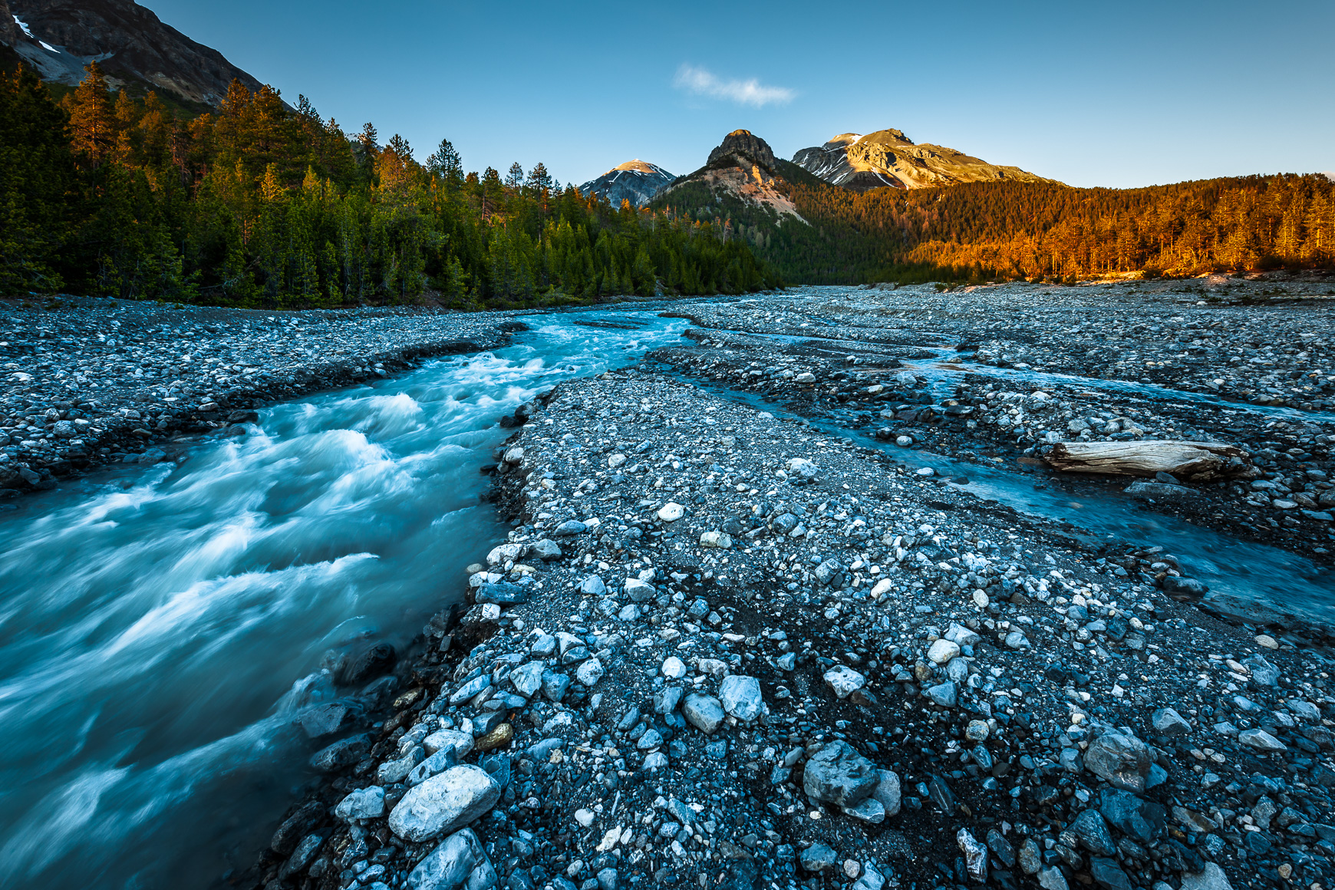
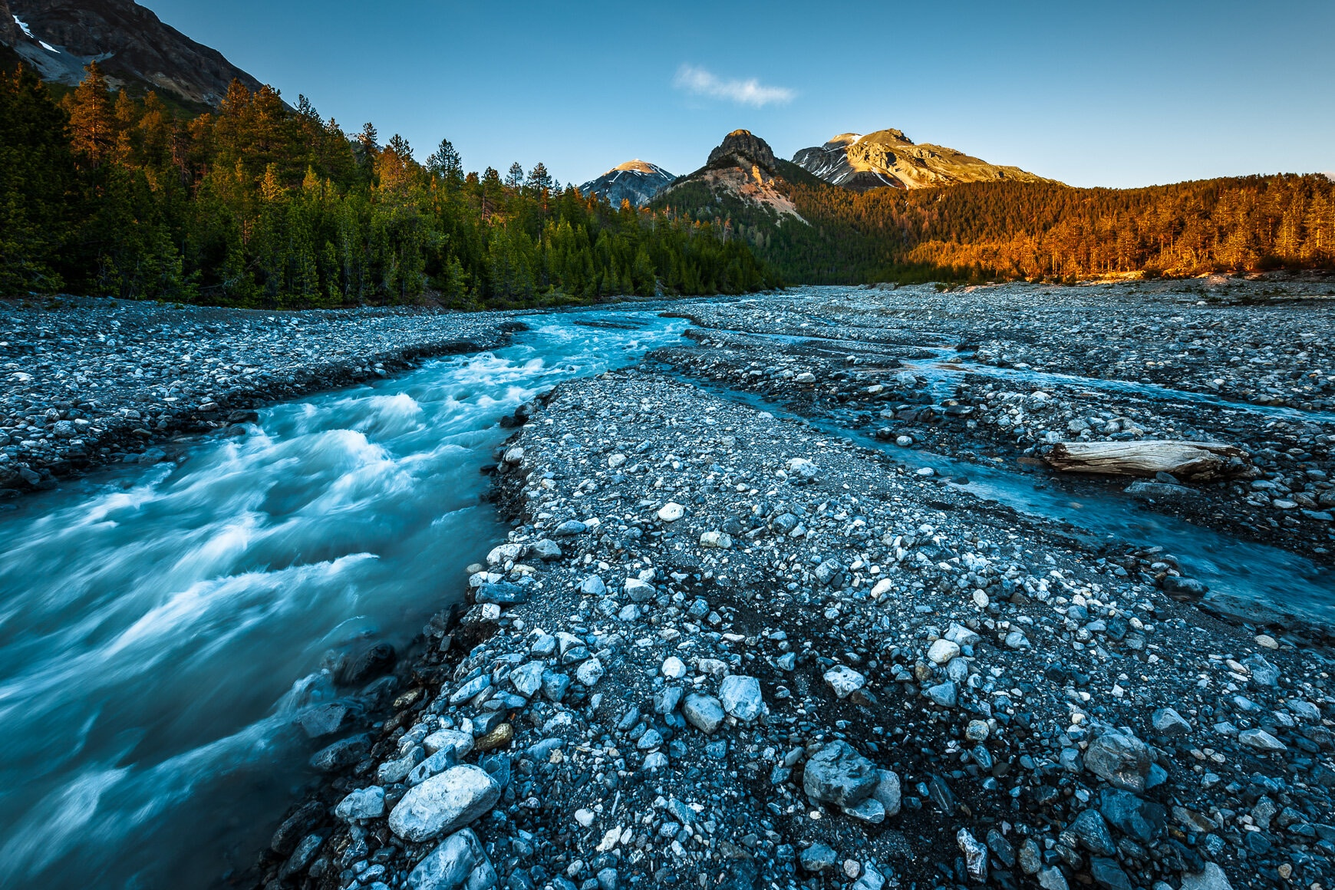
done

diff --git a/index.html b/index.html
@@ -149,7 +149,7 @@
         </div>
         <div class="col" data-aos="flip-right" data-aos-dlay="400">
           <div class="sec-03-img-02">
-            <img src="assets/main-img.jpg" alt="IMG">
+            <img src="assets/main-img-01.jpg" alt="IMG">
             <p class="text-wrapper-sec-03">AMAZING VEIW</p>
           </div>
         </div>
@@ -170,7 +170,7 @@
         </div>
         <div class="col" data-aos="fade-up" data-aos-duation="500">
           <div class="Sec-03-img-05">
-            <img src="assets/mountain-river.jpeg" alt="IMG">
+            <img src="assets/moun-river.jpg" alt="IMG">
             <p class="text-wrapper-sec-3">MOUNTAIN RIVER</p>
           </div>
         </div>
